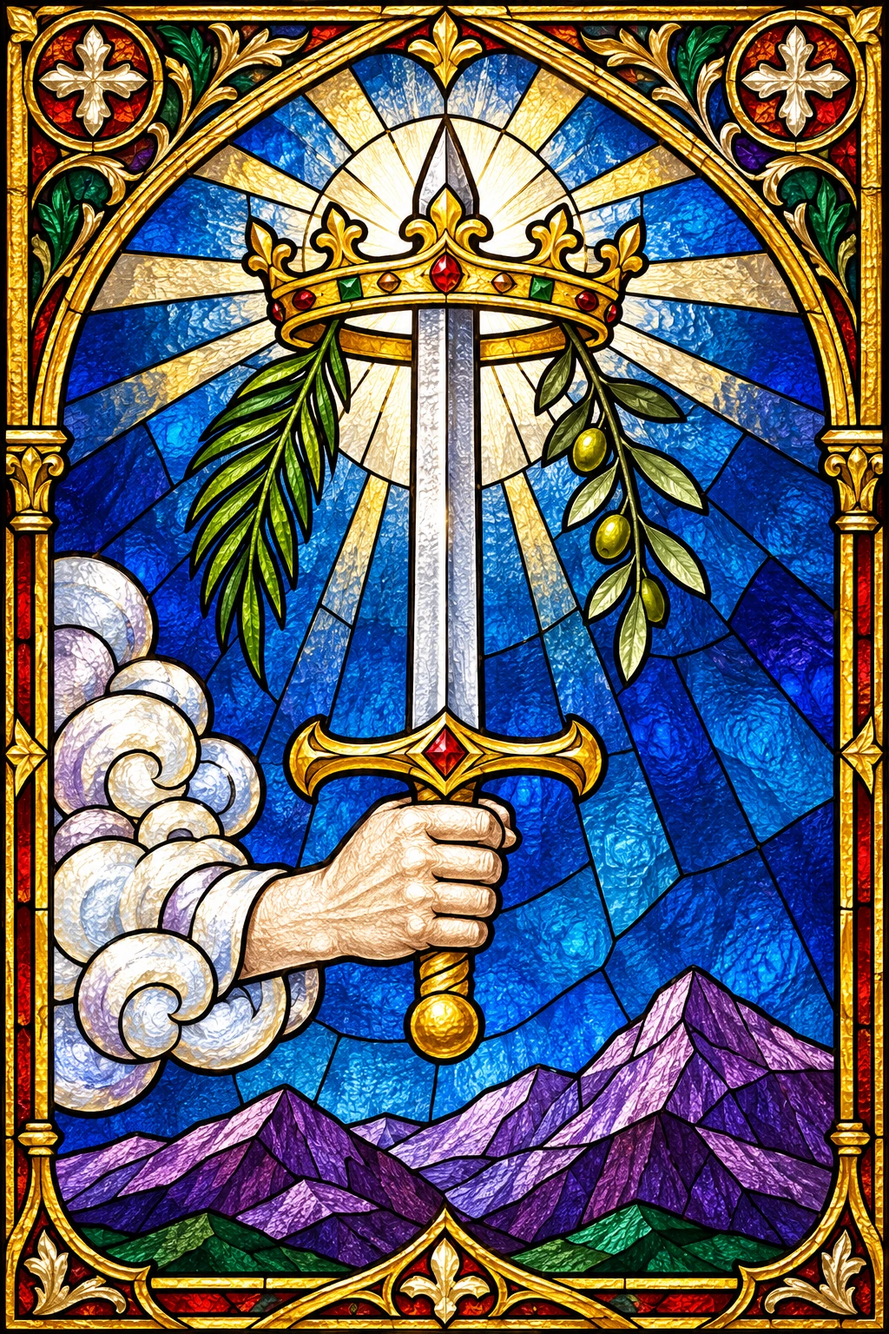
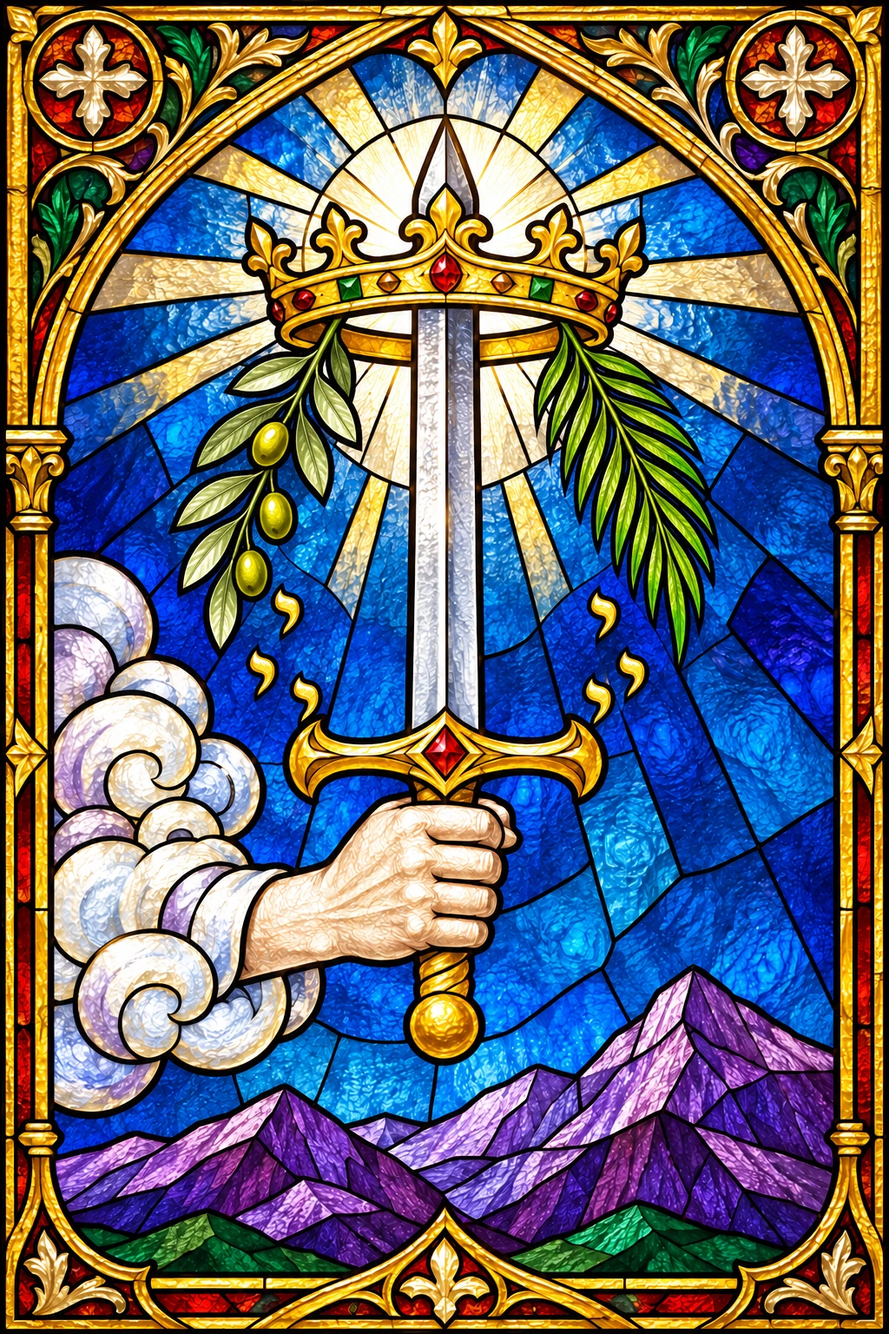
art: adopt corrected Ace of Swords on QA and retain Judgement candidate

diff --git a/docs/audits/two-candidate-adoption-20261113.md b/docs/audits/two-candidate-adoption-20261113.md
@@ -1,0 +1,25 @@
+# Two-candidate comparison and QA adoption — 2026-11-13
+
+Base: QA branch `11442b3`. This is a QA-only change, not a release or a claim that all 78 cards have completed microscopic review.
+
+## Ace of Swords: adopt v2
+
+Actual original PNG and candidate PNG were inspected, followed by the new 320px WebP. The edit retains the original gold Gothic border, blue glass leading, single sword/crown/cloud-emerging hand and purple mountains. Six separate golden yod-like marks are visible (three per side). Olive is now viewer-left, palm viewer-right. At 320px all six marks remain separate and the branches, hand, crown and blade are legible. No title/text was added and no extra sword or hand was observed. The gripped hand retains the source illustration's stylized anatomy; no new obvious limb defect was observed. This is an original RWS-inspired adaptation, not a facsimile or a guarantee of anatomical perfection.
+
[2 lines of base64/hex data omitted]
+- Byte-identical old PNG backup: `candidates/art-20261113/ace-of-swords-v1-backup/swords-1.png`
+- QA runtime uses new PNG and regenerated 320/640/1024 WebP. `src/artReview.json` and `src/artDerivatives.json` updated. Historical audit snapshots keep their old hashes as historical evidence, not current manifests.
+- Targeted WebP regeneration used ImageMagick with libwebp, method 6, qualities 86/90/92. Future full `derive-art.py` may produce different binary hashes; always regenerate its manifest with the actual outputs.
+
+## Judgement: retain v2 as candidate, do not install
+
+Actual old and new PNGs were inspected. Candidate correctly makes six people/coffins visible and retains angel, trumpet, white flag/red cross. Its `XX` and `JUDGEMENT` are correctly spelled, but these new large title panels conflict with this deck's existing text-free artwork treatment and reduce scene area. The rear middle figure looks adult rather than clearly childlike. Existing old art has only three people. Neither image resolves every comparison issue, so do not label Judgement finished or silently exchange one set of defects for another.
+
+Next edit should preserve the old border/text-free visual system, add a clearly separated rear group with child, and keep six people/coffins readable without crowding. This pass did not generate another image or call any live API.
+
+## Validation of this change
+
+- `npm run check`: passed 59 offline tests (37 + 22), TypeScript, production build, and complete notices for 6 rendered runtime packages.
+- Verified hashes for all 78 installed PNGs and all 234 WebP derivatives, plus byte-identical v1 backup.
+- Browser regression attempted in isolated Chromium with no external requests permitted. Cloud Chromium failed before opening a page: `process_singleton_posix.cc socket() failed: Operation not permitted`. Approved escalation retry had the same failure. Therefore this changed commit has **not** passed browser regression; previous branch browser checks do not cover this replacement. Mac or supported managed-browser regression remains outstanding.

diff --git a/candidates/art-20261113/judgement-v2/README.md b/candidates/art-20261113/judgement-v2/README.md
@@ -34,3 +34,5 @@ Node 24.22.1: `npm run check` passed (37 unit + 22 server tests, type check, pro
 320 × 480 and 640 × 960 WebP derivatives were generated non-destructively with ImageMagick, quality 90; their hashes and byte sizes are in `derivatives.json`. Both were decoded successfully and loaded in a dedicated local Chrome preview. DOM image checks confirmed complete=true, expected natural dimensions and displayed widths 320/640. Screenshots of the 320 image and scrolled 640 image were actually inspected. Six figures/coffins, trumpet, red cross on white flag, XX and JUDGEMENT remain readable at 320px; facial/hand microdetails do not become certified by this pass. At 640px the distant middle figure remains adult-looking, not clearly a child. No new rendering blocker was observed.
 
 This supersedes the earlier untested-derivative statement above, but does NOT certify full application integration, Safari, phone viewport behavior or historical identity. Preview page: `preview.html`; serve this folder locally to inspect. The temporary localhost-only server and dedicated browser tab were closed after checking. Requests for both derivatives and HTML returned HTTP 200; the preview's absent favicon returned an unrelated 404. All production art remains unchanged.
+
+Later comparison: NOT adopted. Six figures are an improvement, but newly added XX/JUDGEMENT panels do not match the installed text-free art system, and the rear center figure is not clearly childlike. See `docs/audits/two-candidate-adoption-20261113.md`. Existing production image remains unchanged.

diff --git a/candidates/art-20261113/ace-of-swords-v2/README.md b/candidates/art-20261113/ace-of-swords-v2/README.md
@@ -34,3 +34,5 @@ The original PNG was visually inspected again. New 320 × 480 and 640 × 960 Web
 This supersedes the earlier untested-derivative statement, not the limits on historical exactness or full microdetail review. The candidate is still outside production; no application integration, Safari or phone-viewport certification is claimed. The local preview server and dedicated tab were closed after validation.
 
 `npm run check` passed: 37 unit + 22 server tests, type check, production build and complete runtime-license checks. No API was used. Original `public/art/swords-1.png` and runtime manifests remain unchanged.
+
+Later QA decision: adopted in QA runtime after original/candidate and 320px review. See `docs/audits/two-candidate-adoption-20261113.md`. This supersedes earlier not-installed status, not release status.

diff --git a/candidates/art-20261113/README.md b/candidates/art-20261113/README.md
@@ -53,3 +53,7 @@ New edit specification: preserve the complete 2:3 gold border, single vertical s
 ## Saved Ace of Swords v2 now available
 
 A later fresh generation produced a real saved PNG and was transferred through Library as a verified Git bundle. See `ace-of-swords-v2/README.md` for provenance, hashes and completed 320/640 Chrome checks. This is not recovery of the earlier display-only output described above. No production image has been replaced.
+
+## QA adoption decision (later 2026-11-13)
+
+Ace of Swords v2 is now installed on the QA branch, with v1 backed up in `ace-of-swords-v1-backup/`. Judgement v2 is not installed: title-panel consistency and rear-child clarity remain unresolved. Earlier non-installation statements above are historical. See `docs/audits/two-candidate-adoption-20261113.md`.
